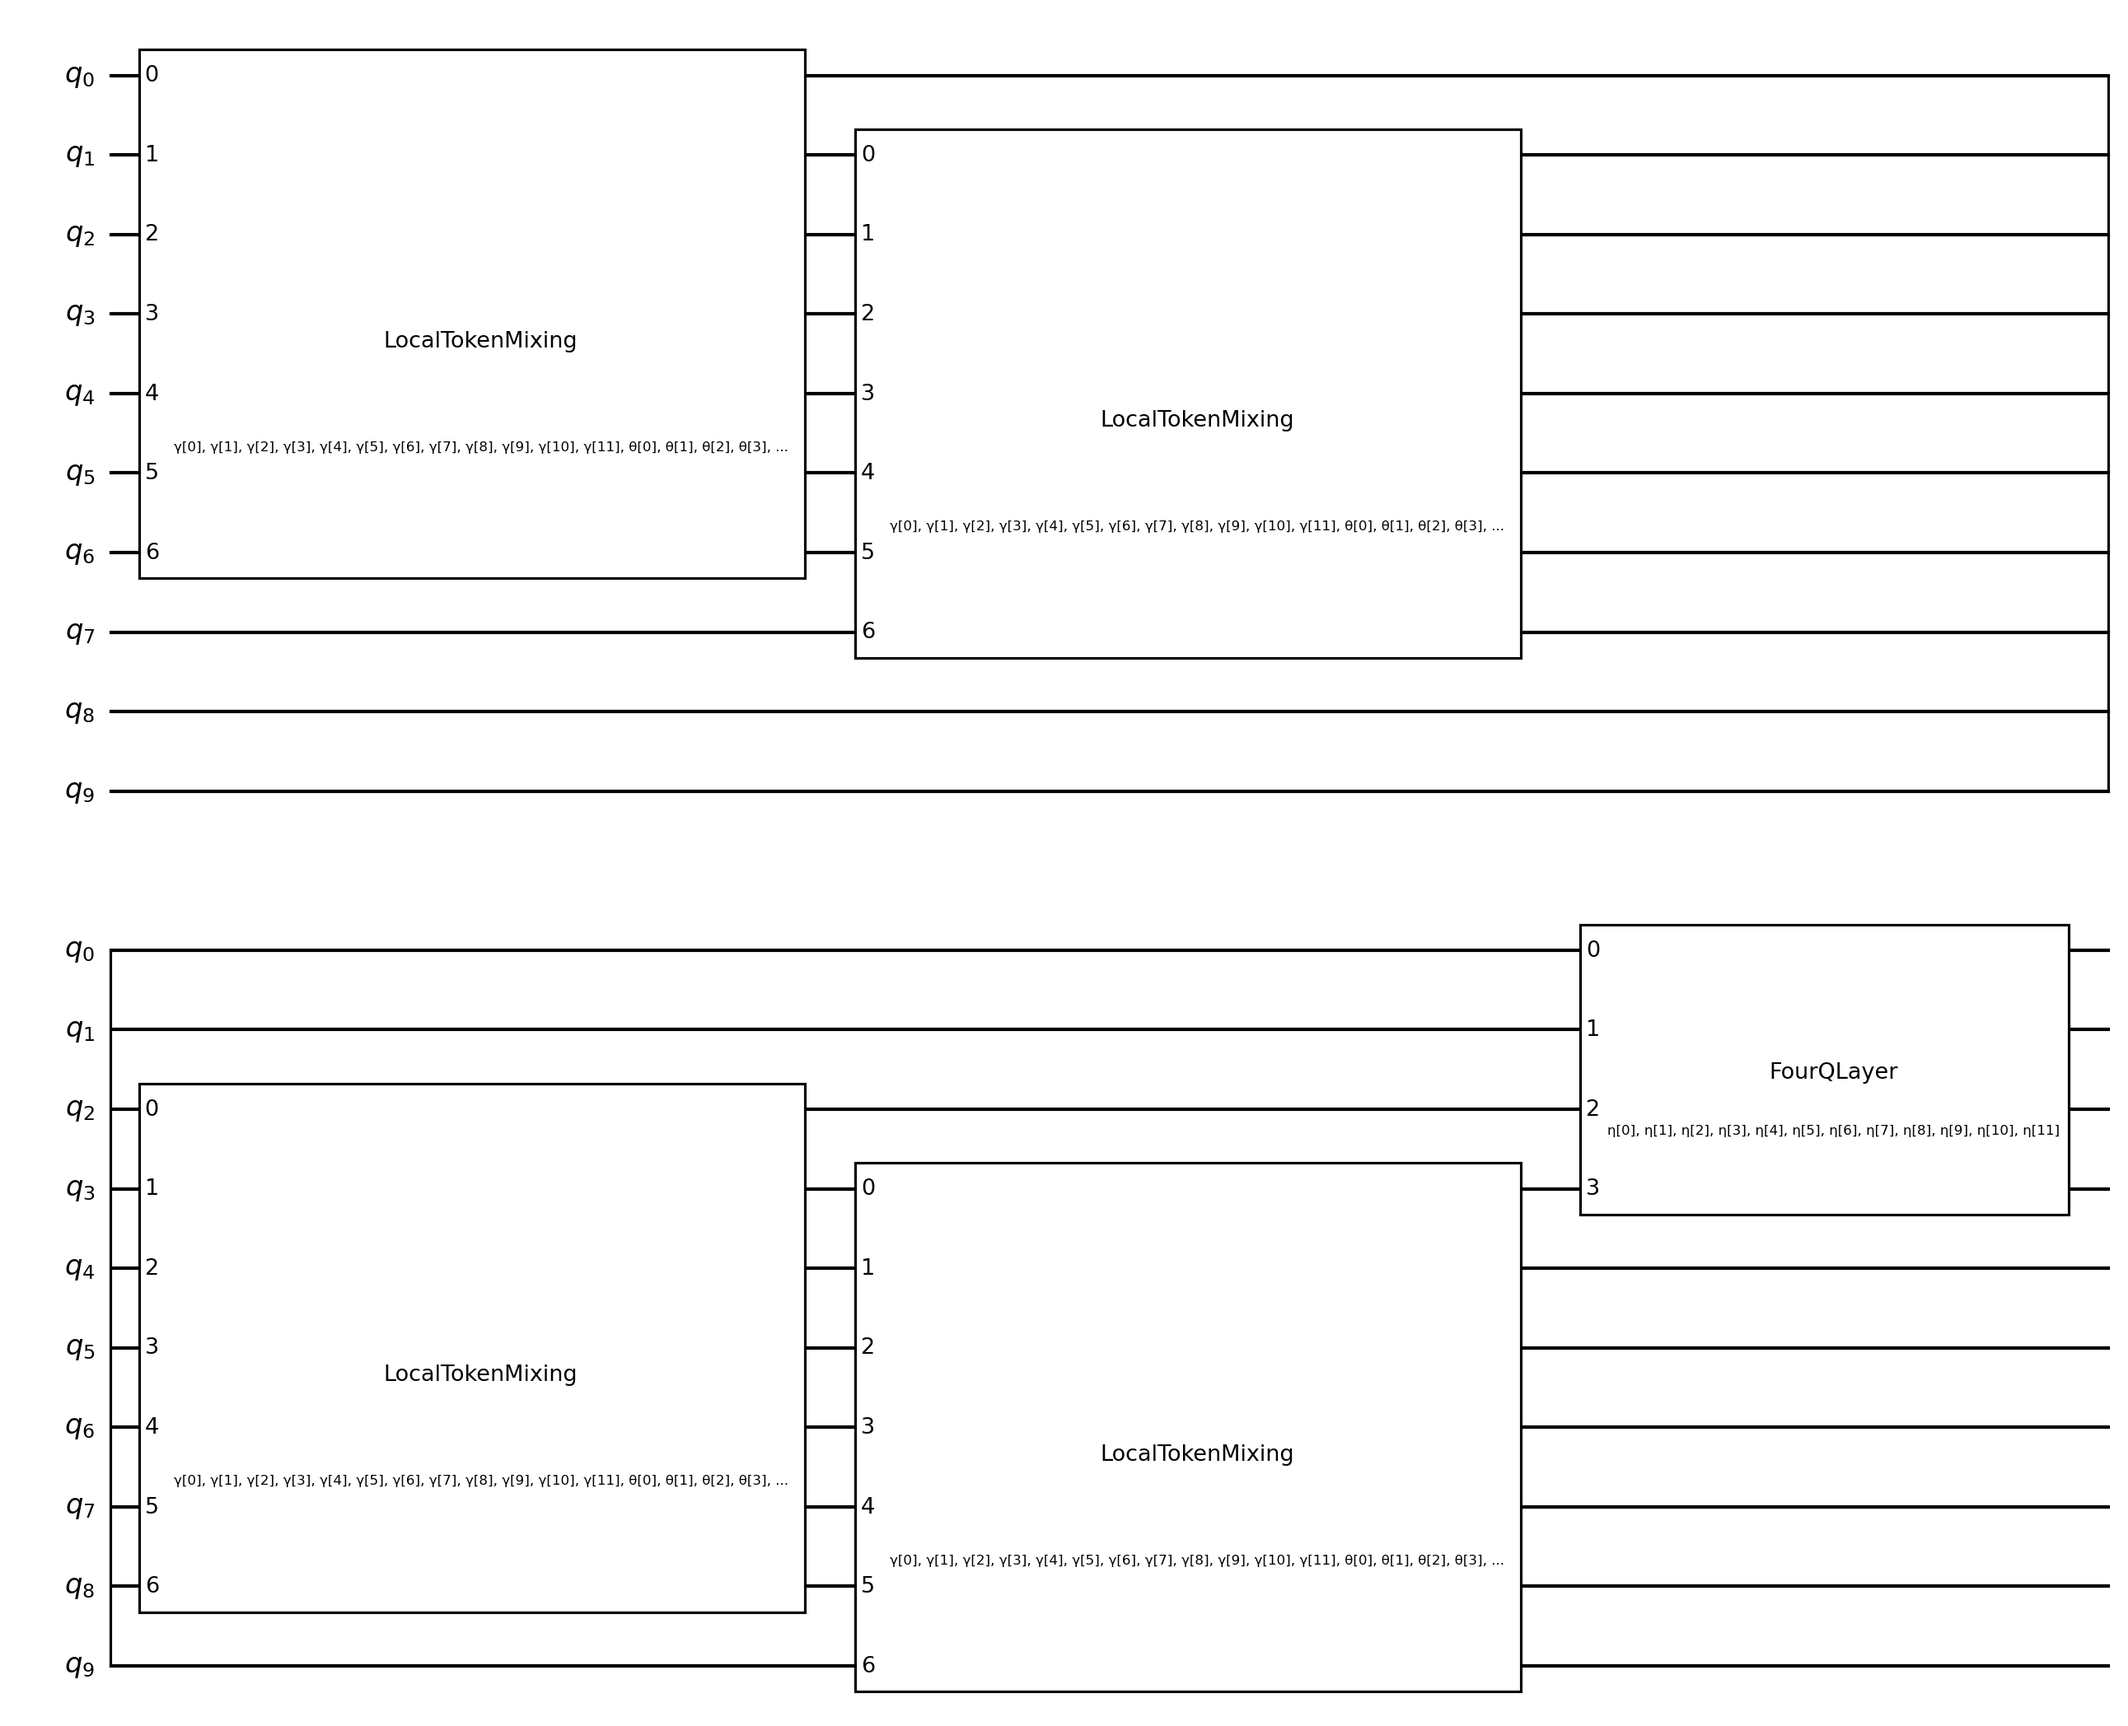
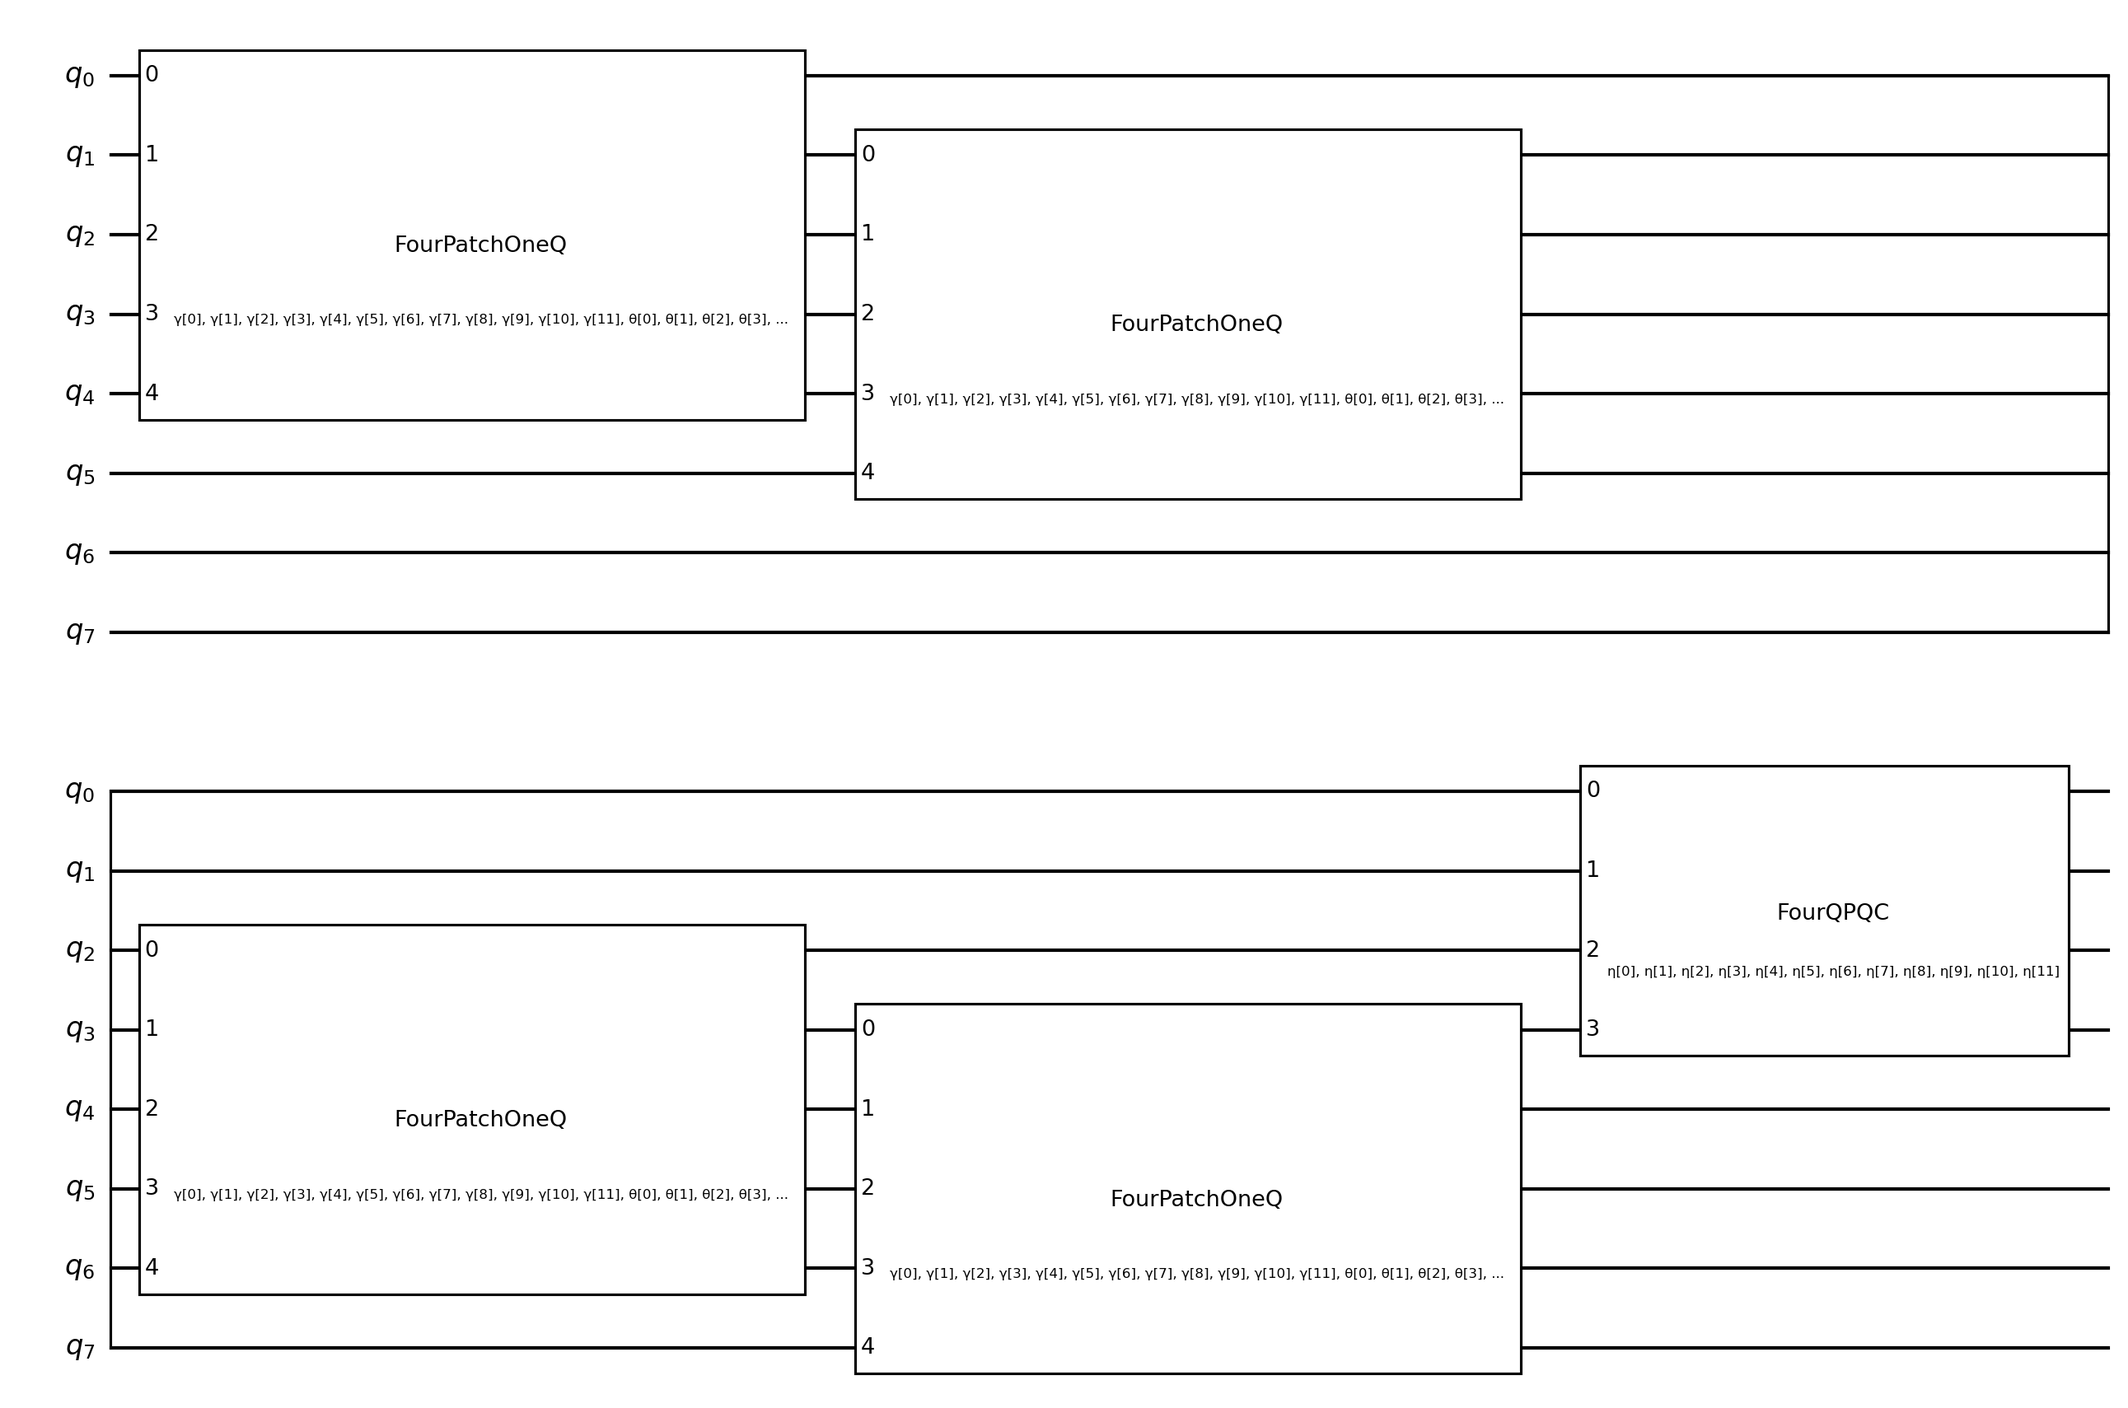
updates

diff --git a/tiny-handwritten-digits/contrastive_learning/with_qiskit/backbone_circ_with_hierarchical_encoding.py b/tiny-handwritten-digits/contrastive_learning/with_qiskit/backbone_circ_with_hierarchical_encoding.py
@@ -21,20 +21,21 @@ from two_by_two_local_tokens import LocalTokenMixing
 
 def backboneCircFourQubitFeature(
         image_patches:Union[List[List[ParameterVector]], np.ndarray],
-        single_patch_encoding_parameter:Union[ParameterVector, np.ndarray],
-        single_patch_d_and_r_phase_parameter:Union[ParameterVector, np.ndarray],
-        four_q_param_layer_parameter_local_patches:Union[ParameterVector, np.ndarray],
-        local_token_mixing_phase_parameter:Union[ParameterVector, np.ndarray],
+        single_patch_encoding_parameter: Union[ParameterVector, np.ndarray],
+        single_patch_d_and_r_phase_parameter: Union[ParameterVector, np.ndarray],
+        four_patch_d_and_r_phase_parameter: Union[ParameterVector, np.ndarray],
+        two_patch_2_q_pqc_parameter: Union[ParameterVector, np.ndarray],
         finishing_layer_parameter:Union[ParameterVector, np.ndarray]
 ):
     """
     The backbone circuit for producing the four-qubit feature/representation of an 8 x 8 image.
     The first 4 qubits contain the feature, and the last 6 qubits are ancilla qubits, which, in an ideal simulation, should be reversed back to the |0> state.
+
     :param image_patches: All 16 image patches, each of which is a 4-element array (ParameterVector) reshaped into a 4 by 4 list, or a 4 by 4 by 4 ndarray, in which the last dimension is the original pixels.
-    :param single_patch_encoding_parameter: "θ", 6NL-element array, one-dim, where N is the number of "layers" of data-reuploading and L is the number of D&R repetitions in the single patch D&R
-    :param single_patch_d_and_r_phase_parameter: "φ", L-element array, one-dim, where L is the number of D&R repetitions in the single patch D&R
-    :param four_q_param_layer_parameter_local_patches: "γ", 12M-element array, one-dim, where M is the number of layers of the 4-q parameterised layer
-    :param local_token_mixing_phase_parameter: "ω", a one-element array for the phase parameter of the token mixing D&R
+    :param single_patch_encoding_parameter: "θ", 12N-element array, one-dim, where N is the number of "layers" of data-reuploading and L is the number of D&R repetitions in the single patch D&R
+    :param single_patch_d_and_r_phase_parameter: "φ", 2-element array, one-dim, where L is the number of D&R repetitions in the single patch D&R
+    :param four_patch_d_and_r_phase_parameter: 2-parameter array
+    :param two_patch_2_q_pqc_parameter: "γ", 6N-element array, one-dim, where N is the number of layers of the two-patch 2-qubit parameterised layer
     :param finishing_layer_parameter: "η", 12K-element array, one-dim, where K is the number of layers of the finishing layer
     :return:
     """
@@ -69,12 +70,18 @@ def backboneCircFourQubitFeature(
         [52. 53. 60. 61.]
         [54. 55. 62. 63.]]]
     """
-    circ = QuantumCircuit(10, name="BackboneCirc4QFeature")
+    circ = QuantumCircuit(8, name="BackboneCirc4QFeature")
     local_mixing_count = 0
     for i in range(2):
         for j in range(2):
             local_patches = image_patches[i * 2:i * 2 + 2, j * 2:j * 2 + 2]
-            circ.append(LocalTokenMixing(local_patches, single_patch_encoding_parameter, single_patch_d_and_r_phase_parameter, four_q_param_layer_parameter_local_patches, local_token_mixing_phase_parameter), [local_mixing_count, local_mixing_count + 1, local_mixing_count + 2, local_mixing_count + 3, local_mixing_count + 4, local_mixing_count + 5, local_mixing_count + 6])
+            circ.append(LocalTokenMixing(
+                local_patches,
+                single_patch_encoding_parameter,
+                single_patch_d_and_r_phase_parameter,
+                four_patch_d_and_r_phase_parameter,
+                two_patch_2_q_pqc_parameter
+            ), [local_mixing_count, local_mixing_count + 1, local_mixing_count + 2, local_mixing_count + 3, local_mixing_count + 4])
             local_mixing_count += 1
 
     circ.append(FourQubitParameterisedLayer(finishing_layer_parameter), [0, 1, 2, 3])
@@ -106,24 +113,27 @@ if __name__ == '__main__':
             print("Patch ", i, j)
             print(patches[i * 2:i * 2 + 2, j * 2:j * 2 + 2])
 
+    num_single_patch_data_reuploading_layers = 2
+    num_single_patch_d_and_r_repetitions = 2
+    num_four_patch_d_and_r_repetitions = 2
+    num_two_patch_2_q_pqc_layers = 2
     first_four_patch_pv = [[ParameterVector('x1',4),ParameterVector('x2',4)],[ParameterVector('x5',4),ParameterVector('x6',4)]]
-    theta = ParameterVector('θ', 12)
-    phi = ParameterVector('φ', 2)
-    gamma = ParameterVector('γ', 12)
-    omega = ParameterVector('ω', 1)
+    single_patch_encoding_parameter = ParameterVector('θ',
+                                                      6 * num_single_patch_data_reuploading_layers * num_single_patch_d_and_r_repetitions)
+    single_patch_d_and_r_phase_parameter = ParameterVector('φ', num_single_patch_d_and_r_repetitions)
+    four_patch_d_and_r_phase_parameter = ParameterVector('ψ', num_four_patch_d_and_r_repetitions)
+    two_patch_2_q_pqc_parameter = ParameterVector('γ', 6 * num_two_patch_2_q_pqc_layers)
+
     eta = ParameterVector('η', 12)
 
-    local_tokens = TwoByTwoPatchLocalTokens(first_four_patch_pv, theta, phi, to_gate=False)
-    local_tokens.draw(output='mpl', style='bw', filename='TwoByTwoPatchLocalTokens.png')
 
-    four_q_params = ParameterVector('θ', 24)
-    four_q_layer = FourQubitParameterisedLayer(four_q_params, to_gate=False)
-    four_q_layer.draw(output='mpl', style='bw', filename='FourQubitParameterisedLayer.png')
-
-    local_token_mixing = LocalTokenMixing(first_four_patch_pv, theta, phi, gamma, omega, to_gate=False)
-    local_token_mixing.draw(output='mpl', style='bw', filename='TwoByTwoPatchLocalTokenMixing.png')
-
-    backbone = backboneCircFourQubitFeature(patches, theta, phi, gamma, omega, eta)
+    backbone = backboneCircFourQubitFeature(
+        patches,
+        single_patch_encoding_parameter,
+        single_patch_d_and_r_phase_parameter,
+        four_patch_d_and_r_phase_parameter,
+        two_patch_2_q_pqc_parameter,
+        eta)
     backbone.draw(output='mpl', style='bw', filename='BackboneCirc4QFeature.png')
 
 
